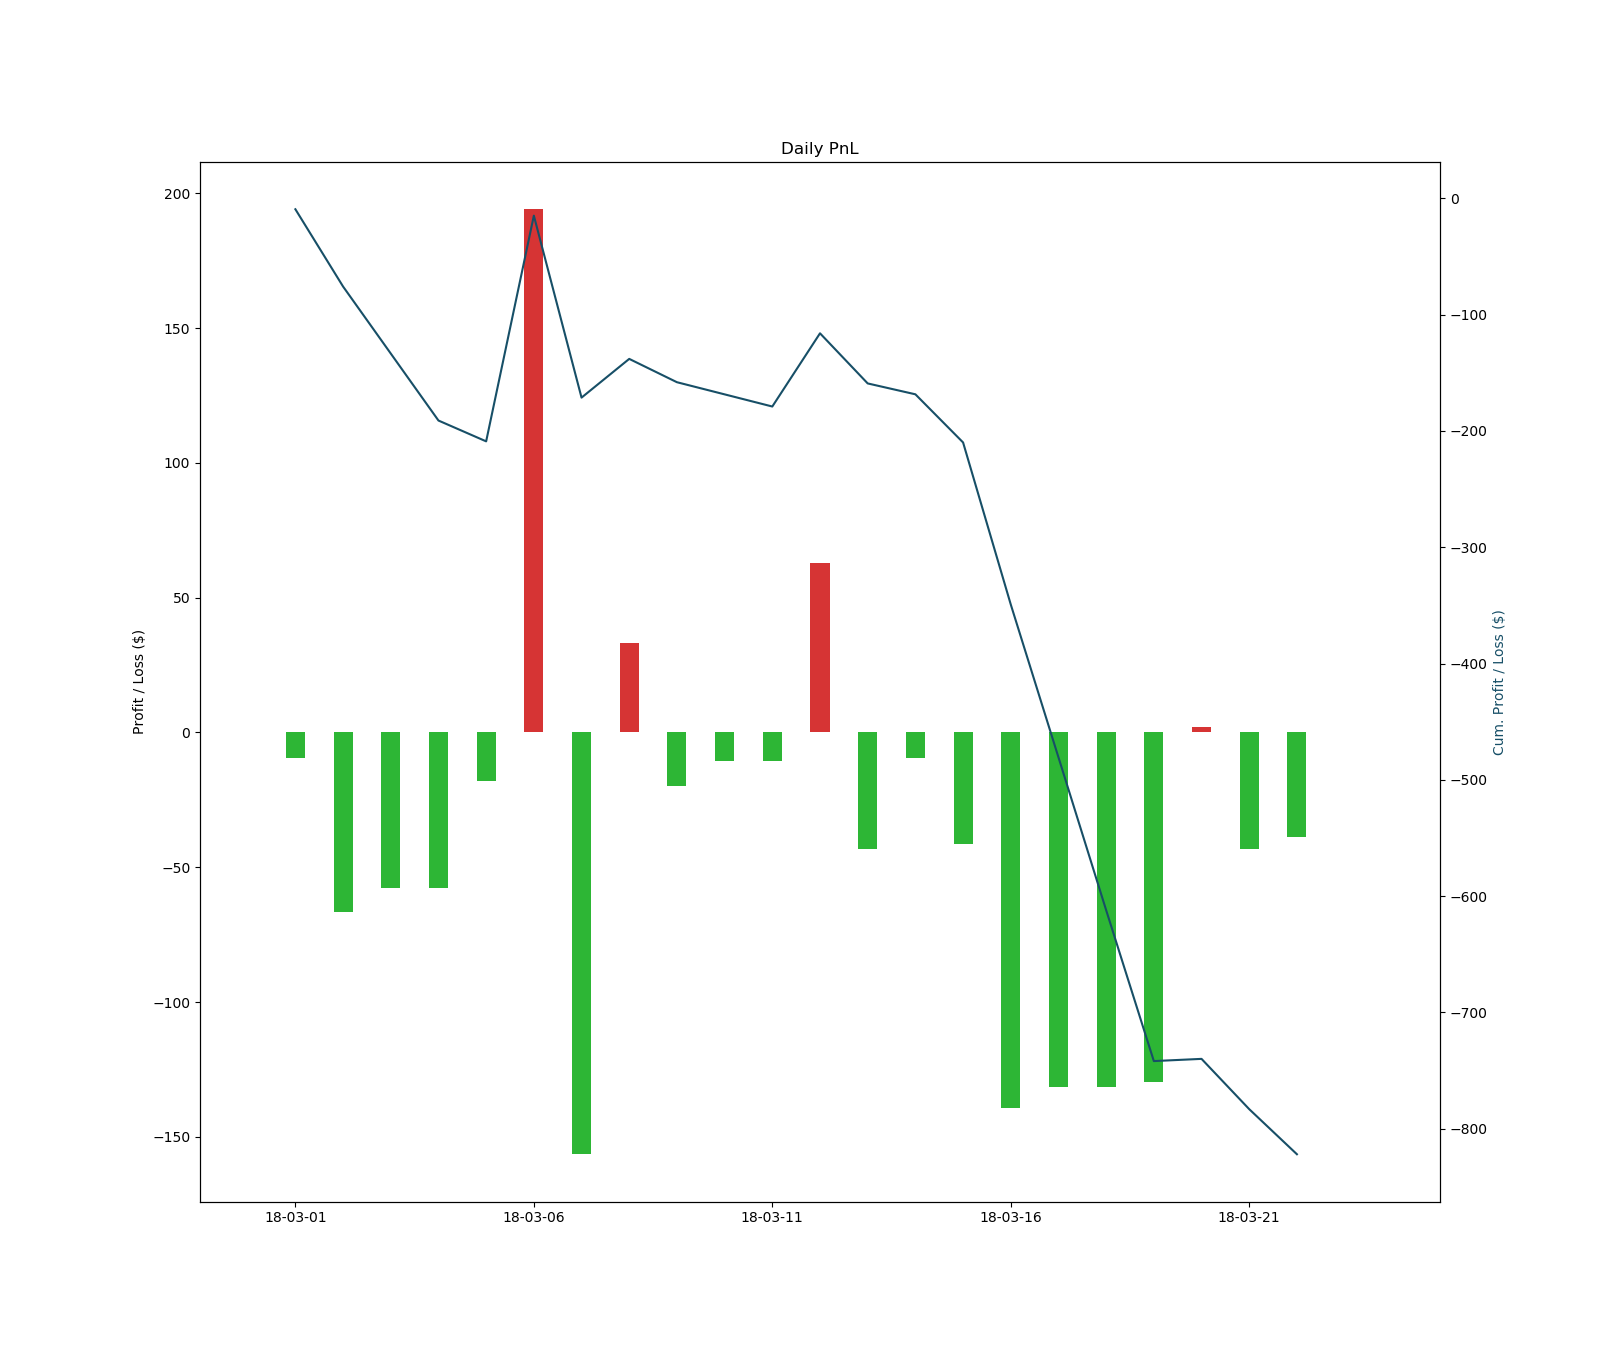
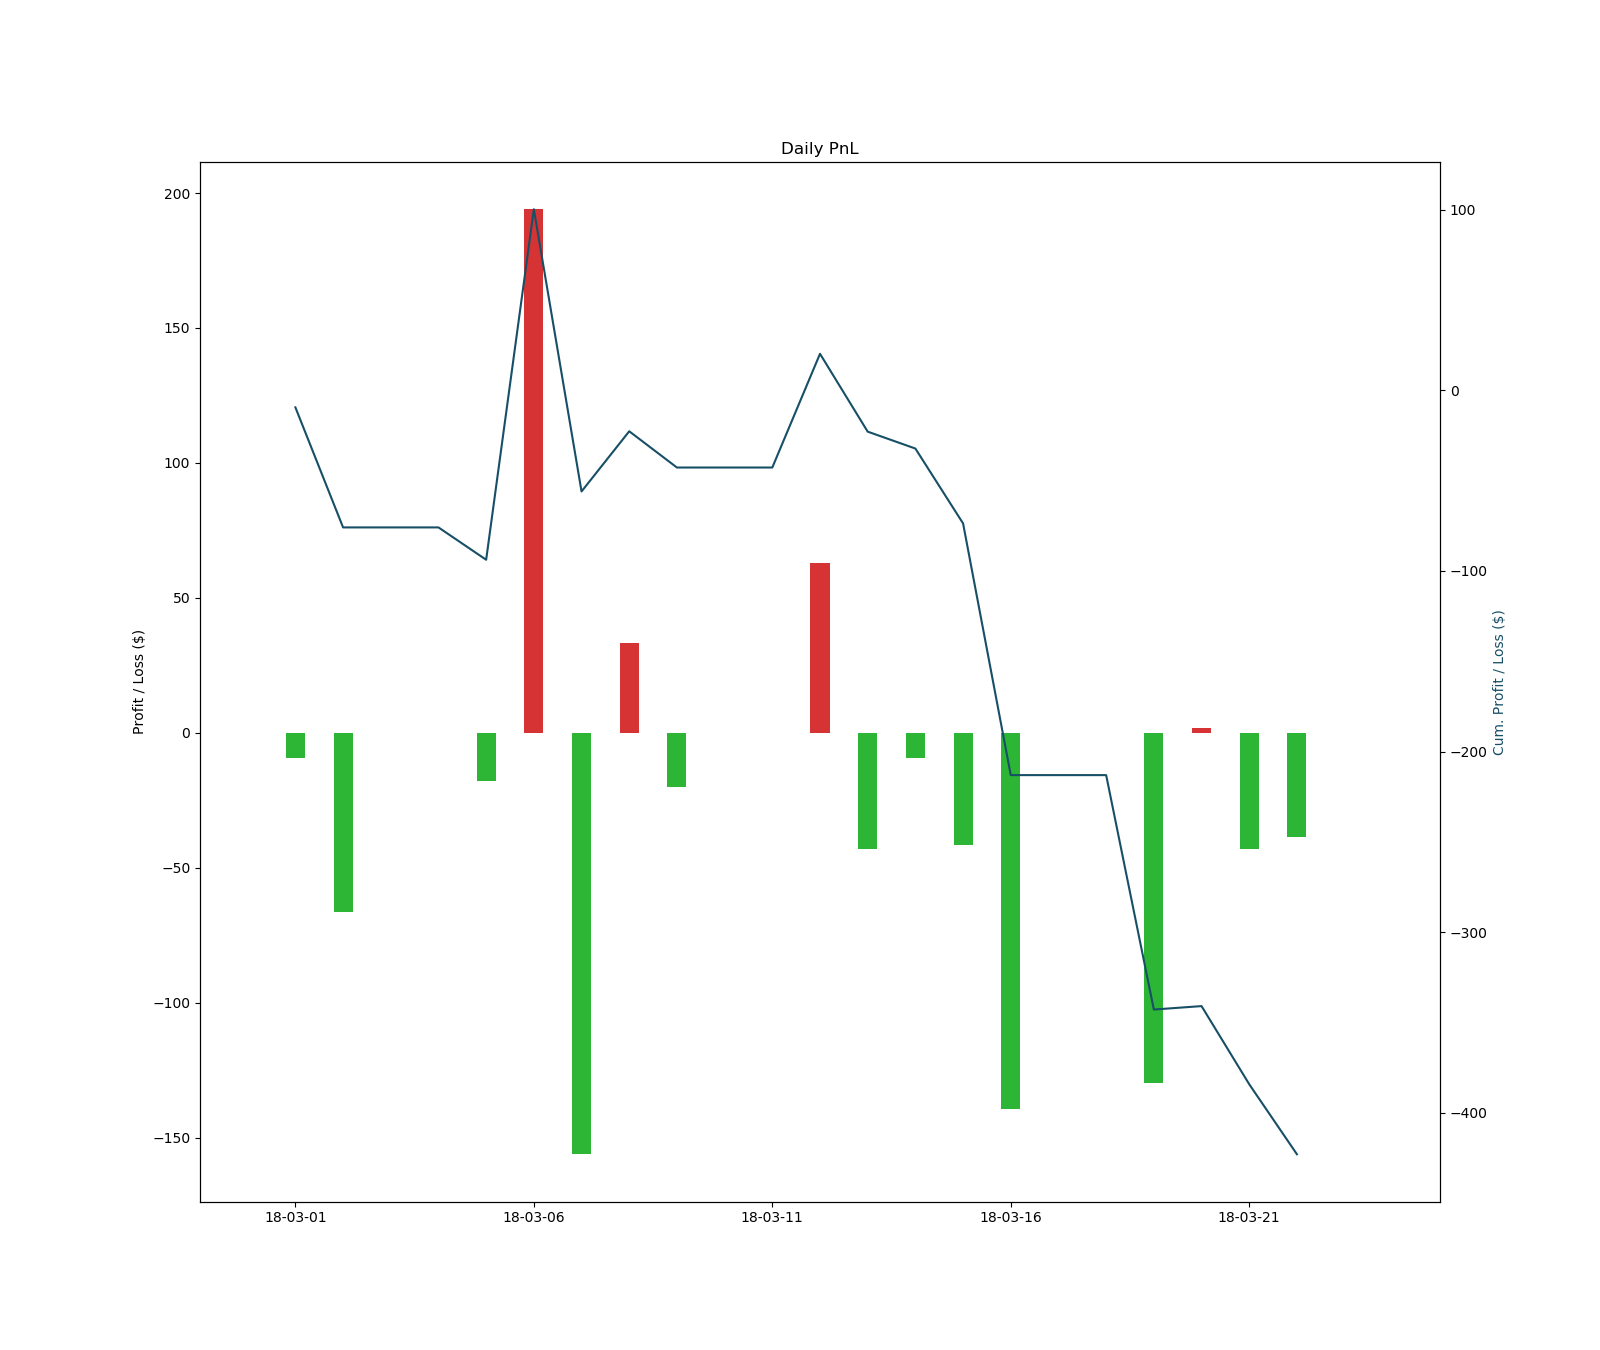
Restored several calculation bugs

diff --git a/test_report/report.html b/test_report/report.html
@@ -10,42 +10,42 @@
 <h1 class="main_header">Performance Matrics </h1>
 <div id="risk_index_area" class="index_area"><table><tr><td>Annual Return</td>
 <span></span>
-<td>-2.0651242259881384</td>
+<td>-0.004641874613987351</td>
 <br />
 </tr>
 <tr><td>Benchmark Annual Return</td>
 <span></span>
-<td>0.3686488458290498</td>
+<td>-0.360982218125644</td>
 <br />
 </tr>
 <tr><td>Alpha</td>
 <span></span>
-<td>-2.14638350173098</td>
+<td>-0.04178990825305509</td>
 <br />
 </tr>
 <tr><td>Beta</td>
 <span></span>
-<td>0.12554212882981777</td>
+<td>0.007112450956712057</td>
 <br />
 </tr>
 <tr><td>Sharpe Ratio</td>
 <span></span>
-<td>-0.9103023934266908</td>
+<td>-41.230864543603474</td>
 <br />
 </tr>
 <tr><td>Max Retrace</td>
 <span></span>
-<td>-350.4999999999993</td>
+<td>-350.19999999999936</td>
 <br />
 </tr>
 <tr><td>Portfolio Volatility</td>
 <span></span>
-<td>2.3125548621966465</td>
+<td>0.0010827295306111416</td>
 <br />
 </tr>
 <tr><td>Benchmark Volatility</td>
 <span></span>
-<td>0.24881740760158516</td>
+<td>0.15785744381807662</td>
 <br />
 </tr>
 </table>

diff --git a/Analyzer/analyze.py b/Analyzer/analyze.py
@@ -133,8 +133,6 @@ class StockAnalyzer(Analyzer):
         self._daily_prices = self._daily_prices.groupby('ticker').sum()
         #print self._daily_prices
 
-
-
     #fill 0 to NAN values
     def _fill_null_value(self):
         pass
@@ -174,7 +172,7 @@ class StockAnalyzer(Analyzer):
         return self._accum_benchmark_pnl[-1] + pnl
 
     def _cal_daily_return(self, pnl):
-        return pnl / (self._total_capital + self._accum_pnl[-1])
+        return pnl / (self._total_capital + self._accum_pnl[-2])
 
     def _cal_accum_return(self, ret):
         return self._accum_return[-1] + ret
@@ -184,7 +182,7 @@ class StockAnalyzer(Analyzer):
         return (1 + self._accum_return[-1]) ** (250/self._period) - 1
 
     def _cal_benchmark_return(self, pnl):
-        return pnl / (self._total_capital + self._accum_benchmark_pnl[-1])
+        return pnl / (self._total_capital + self._accum_benchmark_pnl[-2])
 
     def _cal_accum_benchmark_return(self, ret):
         return self._accum_benchmark_return[-1] + ret
@@ -224,7 +222,9 @@ class StockAnalyzer(Analyzer):
         return np.std(np.array(self._benchmark_return)) * np.sqrt(250)
 
     def _cal_beta(self):
-        return np.corrcoef(self._benchmark_return, self._daily_return)[0, 1]
+        #print np.cov(self._benchmark_return, self._daily_return)[0][1]
+        #print np.array(self._benchmark_return).var()
+        return np.cov(self._benchmark_return, self._daily_return)[0][1] / np.array(self._benchmark_return).var()
 
     def _cal_alpha(self):
         return self._annual_return - (BEN_RATE + self._beta * (self._benchmark_annual_return - BEN_RATE))
@@ -232,7 +232,7 @@ class StockAnalyzer(Analyzer):
     def _cal_sharpe_ratio(self):
         return ((self._annual_return - BEN_RATE) / self._cal_portfolio_volatility())
 
-    def analyze(self):
+    def _generate_pnl_and_returns_from_data(self):
         first_day = True
         for date in self._date_sequence[1:]:
             self._get_daily_data(date)
@@ -248,7 +248,7 @@ class StockAnalyzer(Analyzer):
             self._daily_pnl.append(pnl)
             benchmark_pnl = self._cal_benchmark_pnl()
             self._benchmark_pnl.append(benchmark_pnl)
-            #print self._accumulated_pnl[-1] + pnl
+            # Pre-close total pnl of deposit is at accum_return[-2]
             accum_pnl = self._cal_accum_pnl(pnl)
             self._accum_pnl.append(accum_pnl)
             accum_benchmark_pnl = self._cal_benchmark_accum_pnl(benchmark_pnl)
@@ -263,6 +263,34 @@ class StockAnalyzer(Analyzer):
             self._accum_benchmark_return.append(accum_benchmark_return)
             excess = self._cal_excess_accum_return()
             self._excess_accum_return.append(excess)
+
+    def _generate_pnl_and_returns_from_config(self, pnl, returns):
+        # use existing pnl and returns files
+        pnl = pd.read_csv(pnl)
+        returns = pd.read_csv(returns)
+        self._daily_pnl += pnl['strategy_daily_pnl'].tolist()
+        self._accum_pnl += pnl['strategy_accumulated_pnl'].tolist()
+        self._benchmark_pnl += pnl['benchmark_daily_pnl'].tolist()
+        self._accum_benchmark_pnl += pnl['benchmark_accumulated_pnl'].tolist()
+
+        self._daily_return += returns['strategy_daily_return'].tolist()
+        self._benchmark_return += returns['benchmark_daily_return'].tolist()
+        for index in range(len(self._daily_return)):
+            if index == 0:
+                self._accum_return[index] = self._daily_return[index]
+                self._accum_benchmark_return[index] = self._benchmark_return[index]
+                self._excess_accum_return[index] = self._daily_return[index] - self._benchmark_return[index]
+            else:
+                self._accum_return.append(self._accum_return[index - 1] + self._daily_return[index])
+                self._accum_benchmark_return.append(self._accum_benchmark_return[index - 1] + self._benchmark_return[index])
+                self._excess_accum_return.append(self._accum_return[index] - self._accum_benchmark_return[index])
+
+    def analyze(self, by_config=False, pnl='', returns=''):
+
+        if by_config:
+            self._generate_pnl_and_returns_from_config(pnl, returns)
+        else:
+            self._generate_pnl_and_returns_from_data()
 
         #calculate risk matrics
         self._max_retrace, self._max_retrace_start, self._max_retrace_end = self._cal_max_retrace()
@@ -287,7 +315,10 @@ class StockAnalyzer(Analyzer):
         df.to_csv(self._save_path + 'pnl.csv')
 
     def return_to_csv(self):
-        df = pd.DataFrame({'strategy_daily_return': self._daily_return[1:], 'benchmark_daily_return': self._benchmark_return[1:]}, self._date_sequence[1:])
+        df = pd.DataFrame({'strategy_daily_return': self._daily_return[1:],\
+                           'benchmark_daily_return': self._benchmark_return[1:],\
+                           'strategy_accumulated_return': self._accum_return[1:],\
+                           'benchmark_accumulated_return': self._accum_benchmark_return[1:]}, self._date_sequence[1:])
         df.to_csv(self._save_path + 'return.csv')
 
     def get_context(self):

diff --git a/example.py b/example.py
@@ -5,7 +5,8 @@ from Analyzer import *
 #get data and analyze
 sa = StockAnalyzer()
 #initialize with test saving path
-sa.init_by_config('2018-03-01', '2018-03-22', 1000, 600208, 'test_data/', 'test_output/')
+sa.init_by_config('2018-03-01', '2018-03-22', 1000000, 600395, 'test_data/', 'test_output/')
+#sa.analyze(by_config=True, pnl='test_data/pnl.csv', returns='test_data/returns.csv')
 sa.analyze()
 
 #get context for plotting
